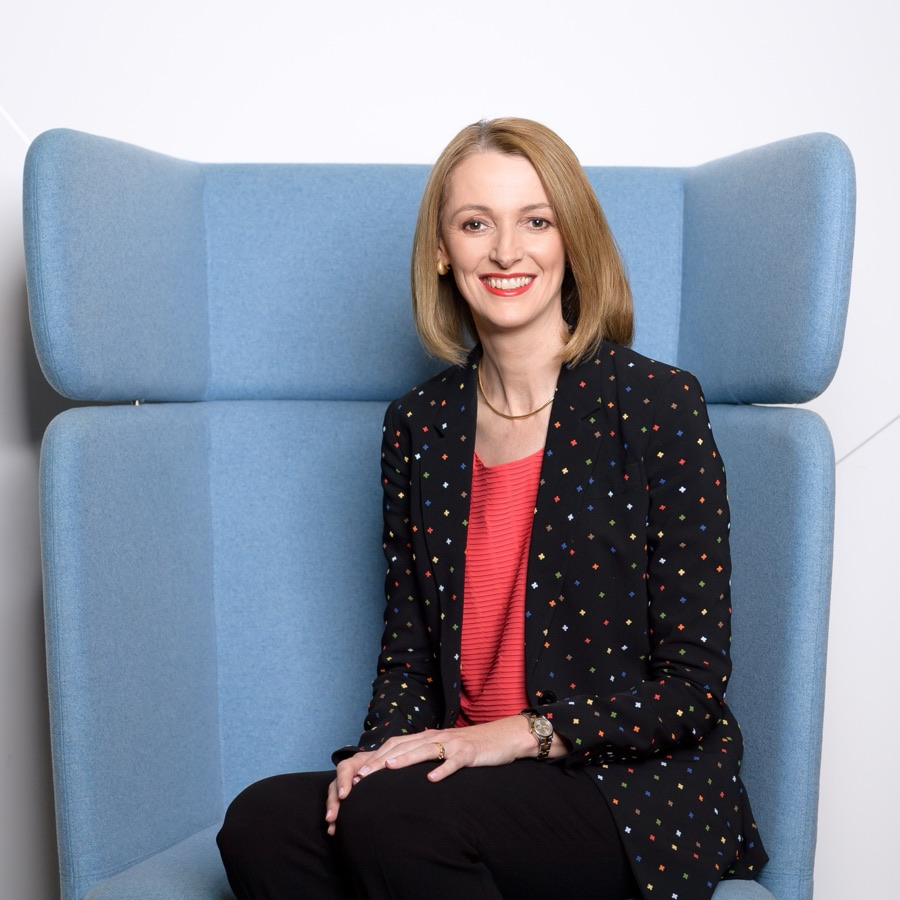
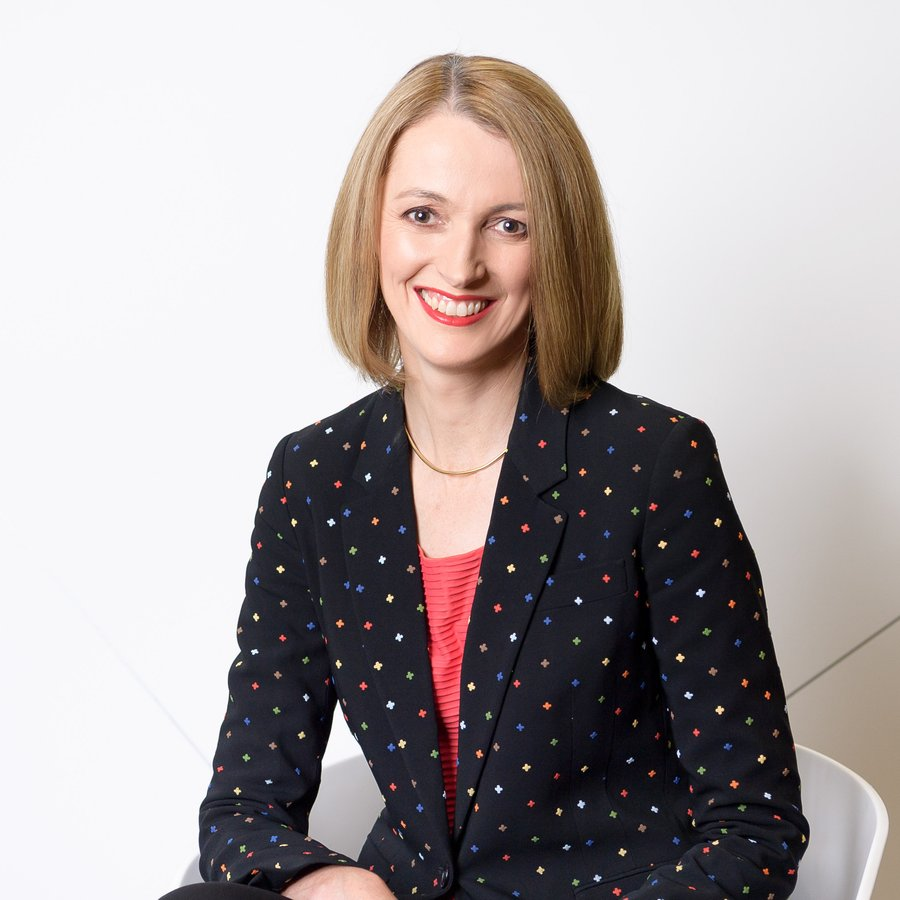
Portfolio: new Telstra photo (Vicky Brady portrait), waist-up crop
Cropped square from the 5568x3712 original, face-centred with hands in
frame, 900x900 jpg+webp; ?v=2 on the references to bust the immutable
asset cache. Alt text updated for the white-studio setting.

diff --git a/portfolio.html b/portfolio.html
@@ -57,7 +57,7 @@
       <div class="lx-plates lx-plates-gallery">
         <article class="lx-plate">
           <div class="lx-plate-img lx-plate-img-small">
-            <img src="assets/img/b-telstra.jpg" srcset="assets/img/b-telstra.webp" alt="Executive seated in a blue wingback chair" loading="lazy">
+            <img src="assets/img/b-telstra.jpg?v=2" srcset="assets/img/b-telstra.webp?v=2" alt="Executive seated on a white chair against a white studio background" loading="lazy">
           </div>
           <div class="lx-plate-meta">
             <h3 class="lx-plate-name">Telstra</h3>
